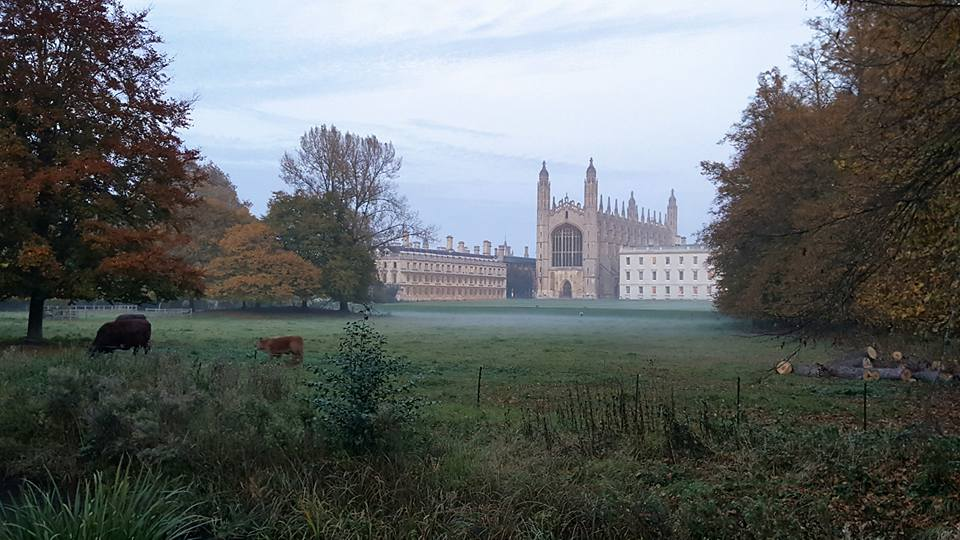
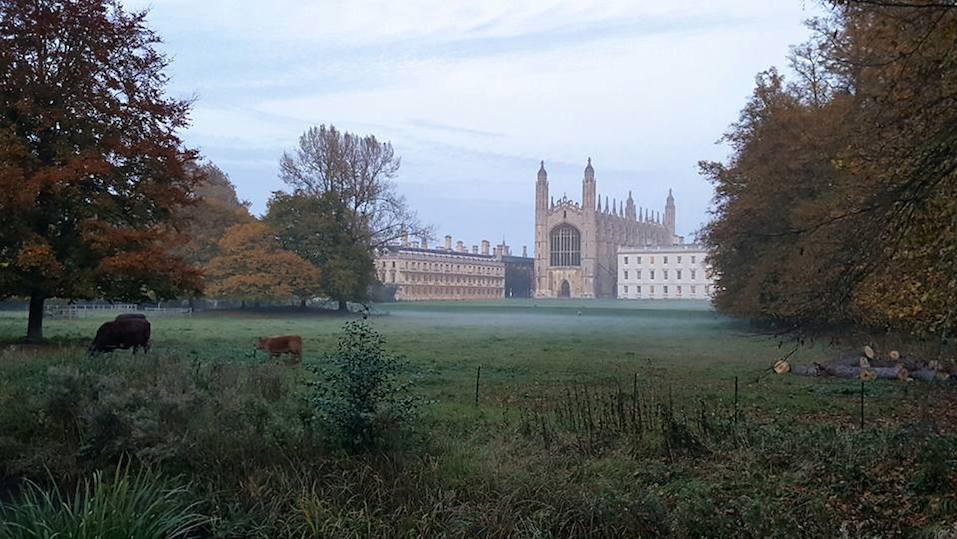
cropped images, added links for jQuery and Bootstrap and added and image carousel
Cropped all images to an equal size

Added links to jQuery library and Bootstrap’s javascript

Added image carousel

diff --git a/index.html b/index.html
@@ -9,6 +9,10 @@
 		<link type="text/css" rel="stylesheet" href="style.css">
 		<link href='bootstrap-3.3.7-dist/css/bootstrap.css' rel='stylesheet'> 
 		<meta name="viewport" content="width=device-width, initial-scale=1.0">
+		<!-- jQuery library -->
+		<script src="https://ajax.googleapis.com/ajax/libs/jquery/1.11.3/jquery.min.js"></script>
+		<!-- Bootstrap JavaScript -->
+		<script src=" http://maxcdn.bootstrapcdn.com/bootstrap/3.3.5/js/bootstrap.min.js "></script>
 	</head>
 
 <body data-spy="scroll" data-target=".navbar" data-offset="50">
@@ -36,8 +40,41 @@
 		</div>
 		</div>
 		<!-- Here starts our header with the tabs and links and pics-->
-		<div class="col-md-4">	
-			<img src='cam.jpg' alt="cambridge" width="400">
+		<!-- First we create the image carousel: Used this code: http://getbootstrap.com/javascript/#carousel -->
+		<div class="col-md-4" id="carousel-example-generic" class="carousel slide" data-ride="carousel">
+		<!-- Indicators -->
+		  <ol class="carousel-indicators">
+		    <li data-target="#carousel-example-generic" data-slide-to="0" class="active"></li>
+		    <li data-target="#carousel-example-generic" data-slide-to="1"></li>
+		    <li data-target="#carousel-example-generic" data-slide-to="2"></li>
+		  </ol>
+
+		  <!-- Wrapper for slides -->
+		  <div class="carousel-inner" role="listbox">
+		    <div class="item active">
+		      <img src='cam.jpg' alt="cambridge" height="200">
+		    </div>
+		    <div class="item">
+		      <img src='kings_summer.jpg' alt="cambridge" height="200">
+		    </div>
+		    <div class="item">
+		    	<img src='kings_winter.jpg' alt="cambridge" height="200">
+		    </div>
+		  </div>
+		<!-- Controls: Not sure if we need this at all as images slide without it, so I commented this chunk of code out for now
+		  <a class="left carousel-control" href="#carousel-example-generic" role="button" data-slide="prev">
+		    Delete this to get rid of left arrow: <span class="glyphicon glyphicon-chevron-left" aria-hidden="true"></span>
+		    <span class="sr-only">Previous</span> 
+		  </a>
+		  Delete this to get rid of right arrow: <a class="right carousel-control" href="#carousel-example-generic" role="button" data-slide="next">
+		    <span class="glyphicon glyphicon-chevron-right" aria-hidden="true"></span>
+		    <span class="sr-only">Next</span> 
+		  </a>-->
+		</div>
+<!--images
+			<img src='cam.jpg' alt="cambridge" height="200">
+			<img src='kings_summer.jpg' alt="cambridge" height="200">
+			<img src='kings_winter.jpg' alt="cambridge" height="200"> -->
 		</div>
 		</div>
 		<h3>Welcome to Cambridge!</h3> 
